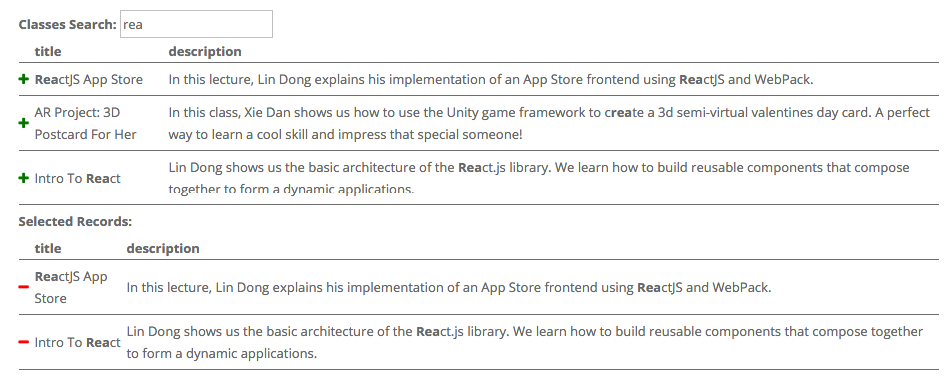
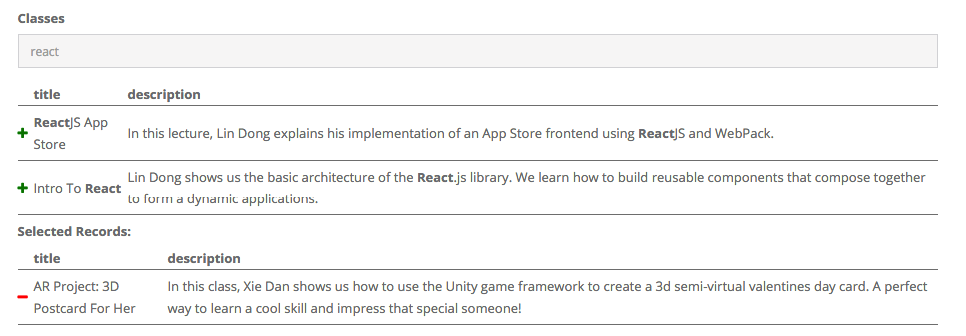
Wrapped search input in form-group and gave it the form-control class

Changed region(s): [[0.0, 0.4762, 1.0, 0.9821], [0.0, 0.0298, 1.0, 0.4762], [0.9473, 0.1488, 1.0, 0.1786]]

diff --git a/client/autoform-relations.html b/client/autoform-relations.html
@@ -1,6 +1,7 @@
 <template name="afRelations">
-
-    <label class="control-label">Search:&nbsp;</label><input type="text" id="searchBox_{{schemaKey}}"/>
+    <div class="form-group">
+        <input type="text" class="form-control" id="searchBox_{{schemaKey}}"/>
+    </div>
     {{#if getResults}}
         <table class="afRelations-table">
             <tr>

diff --git a/package.js b/package.js
@@ -1,6 +1,6 @@
 Package.describe({
   name: 'skehoe1989:autoform-relations',
-  version: '1.0.1',
+  version: '1.0.2',
   // Brief, one-line summary of the package.
   summary: 'Simple input for aldeed-autoform to search for & store references to document(s) across collections.',
   // URL to the Git repository containing the source code for this package.
